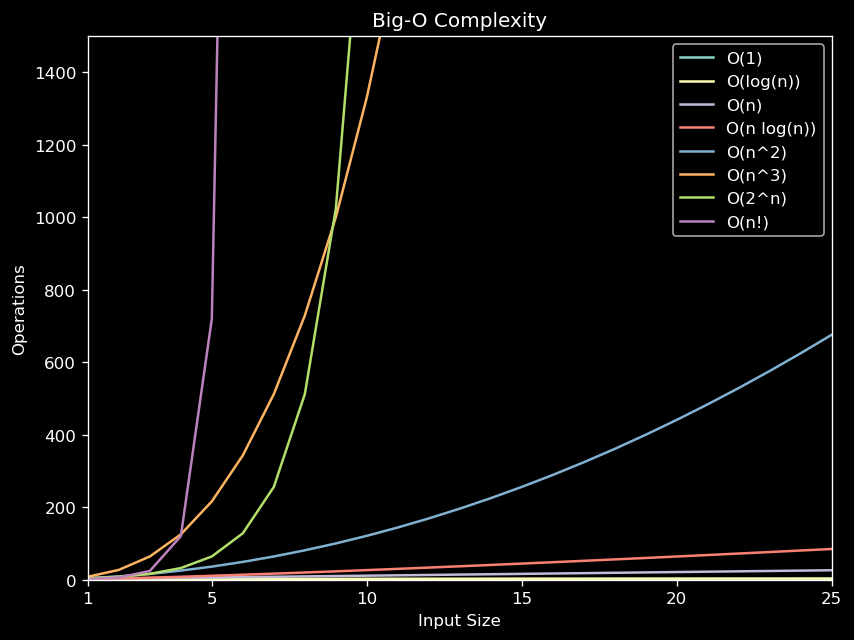
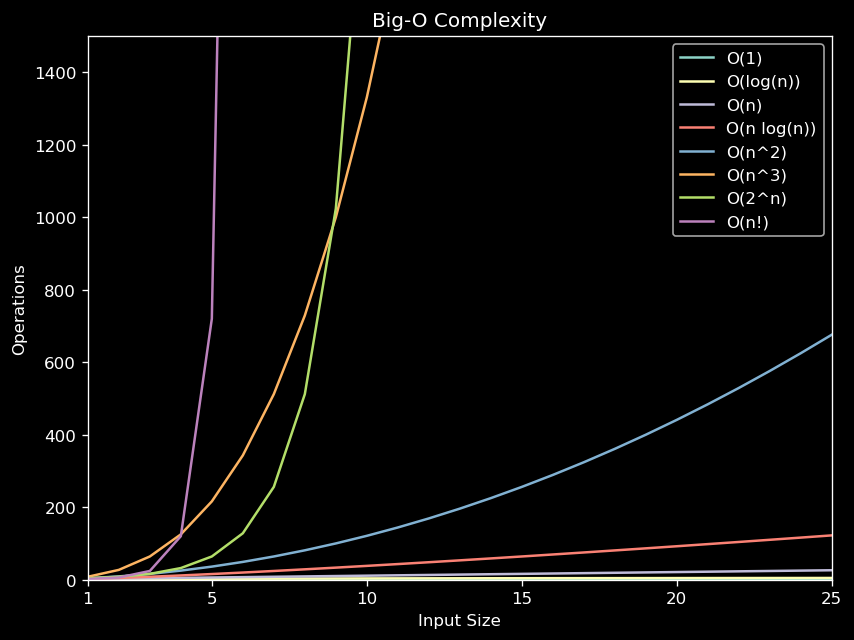
update slides

Changed region(s): [[0.1522, 0.8125, 0.9742, 0.9062]]

diff --git a/lectures/analysis1/analysis1.md b/lectures/analysis1/analysis1.md
@@ -780,14 +780,14 @@ linear algorithms grow at the same rate as $n$
 
 <div style="font-size:0.7em">
 
-| $n$ | $O(1)$ | $O(log(n))$ | $O(n)$ | $O(n log(n))$ | $O(n^2)$ | $O(2^n)$ | $O(n!)$ |
+| $n$   |$O(1)$ | $O(log(n))$ | $O(n)$ | $O(n log(n))$ | $O(n^2)$ | $O(2^n)$ | $O(n!)$ |
 |:-----:|:-----:|:-----:|:-----:|:-----:|:-----:|:-----:|:-----:|
-| $  8$ | $1$ | $2.079$ | $  8$ | $16.636$  | $64$    | $  256$              | $40320$|
-| $ 16$ | $1$ | $2.773$ | $ 16$ | $44.361$  | $256$   | $65536$              | $2.092\times10^{13}$|
-| $ 32$ | $1$ | $3.466$ | $ 32$ | $110.904$	| $1024$  | $4.295\times10^{9}$  | $2.631\times10^{35}$|
-| $ 64$ | $1$ | $4.159$ | $ 64$ | $266.169$	| $4096$  | $1.845\times10^{19}$ | $1.269\times10^{89}$|
-| $128$ | $1$ | $4.852$ | $128$ | $621.060$	| $16384$ | $3.403\times10^{38}$ | $3.856\times10^{215}$|
-| $256$ | $1$ | $5.545$ | $256$ | $1419.565$| $65536$ | $1.158\times10^{77}$ | $8.578\times10^{506}$|
+| $  8$ | $1$ | $3$ |   $8$ |   $24$  |    $64$ | $256$                | $40320$|
+| $ 16$ | $1$ | $4$ |  $16$ |   $64$  |   $256$ | $65536$              | $2.092\times10^{13}$|
+| $ 32$ | $1$ | $5$ |  $32$ |  $160$  |  $1024$ | $4.295\times10^{9}$  | $2.631\times10^{35}$|
+| $ 64$ | $1$ | $6$ |  $64$ |  $384$  |  $4096$ | $1.845\times10^{19}$ | $1.269\times10^{89}$|
+| $128$ | $1$ | $7$ | $128$ |  $896$  | $16384$ | $3.403\times10^{38}$ | $3.856\times10^{215}$|
+| $256$ | $1$ | $8$ | $256$ | $2048$  | $65536$ | $1.158\times10^{77}$ | $8.578\times10^{506}$|
 
 </div>
 
